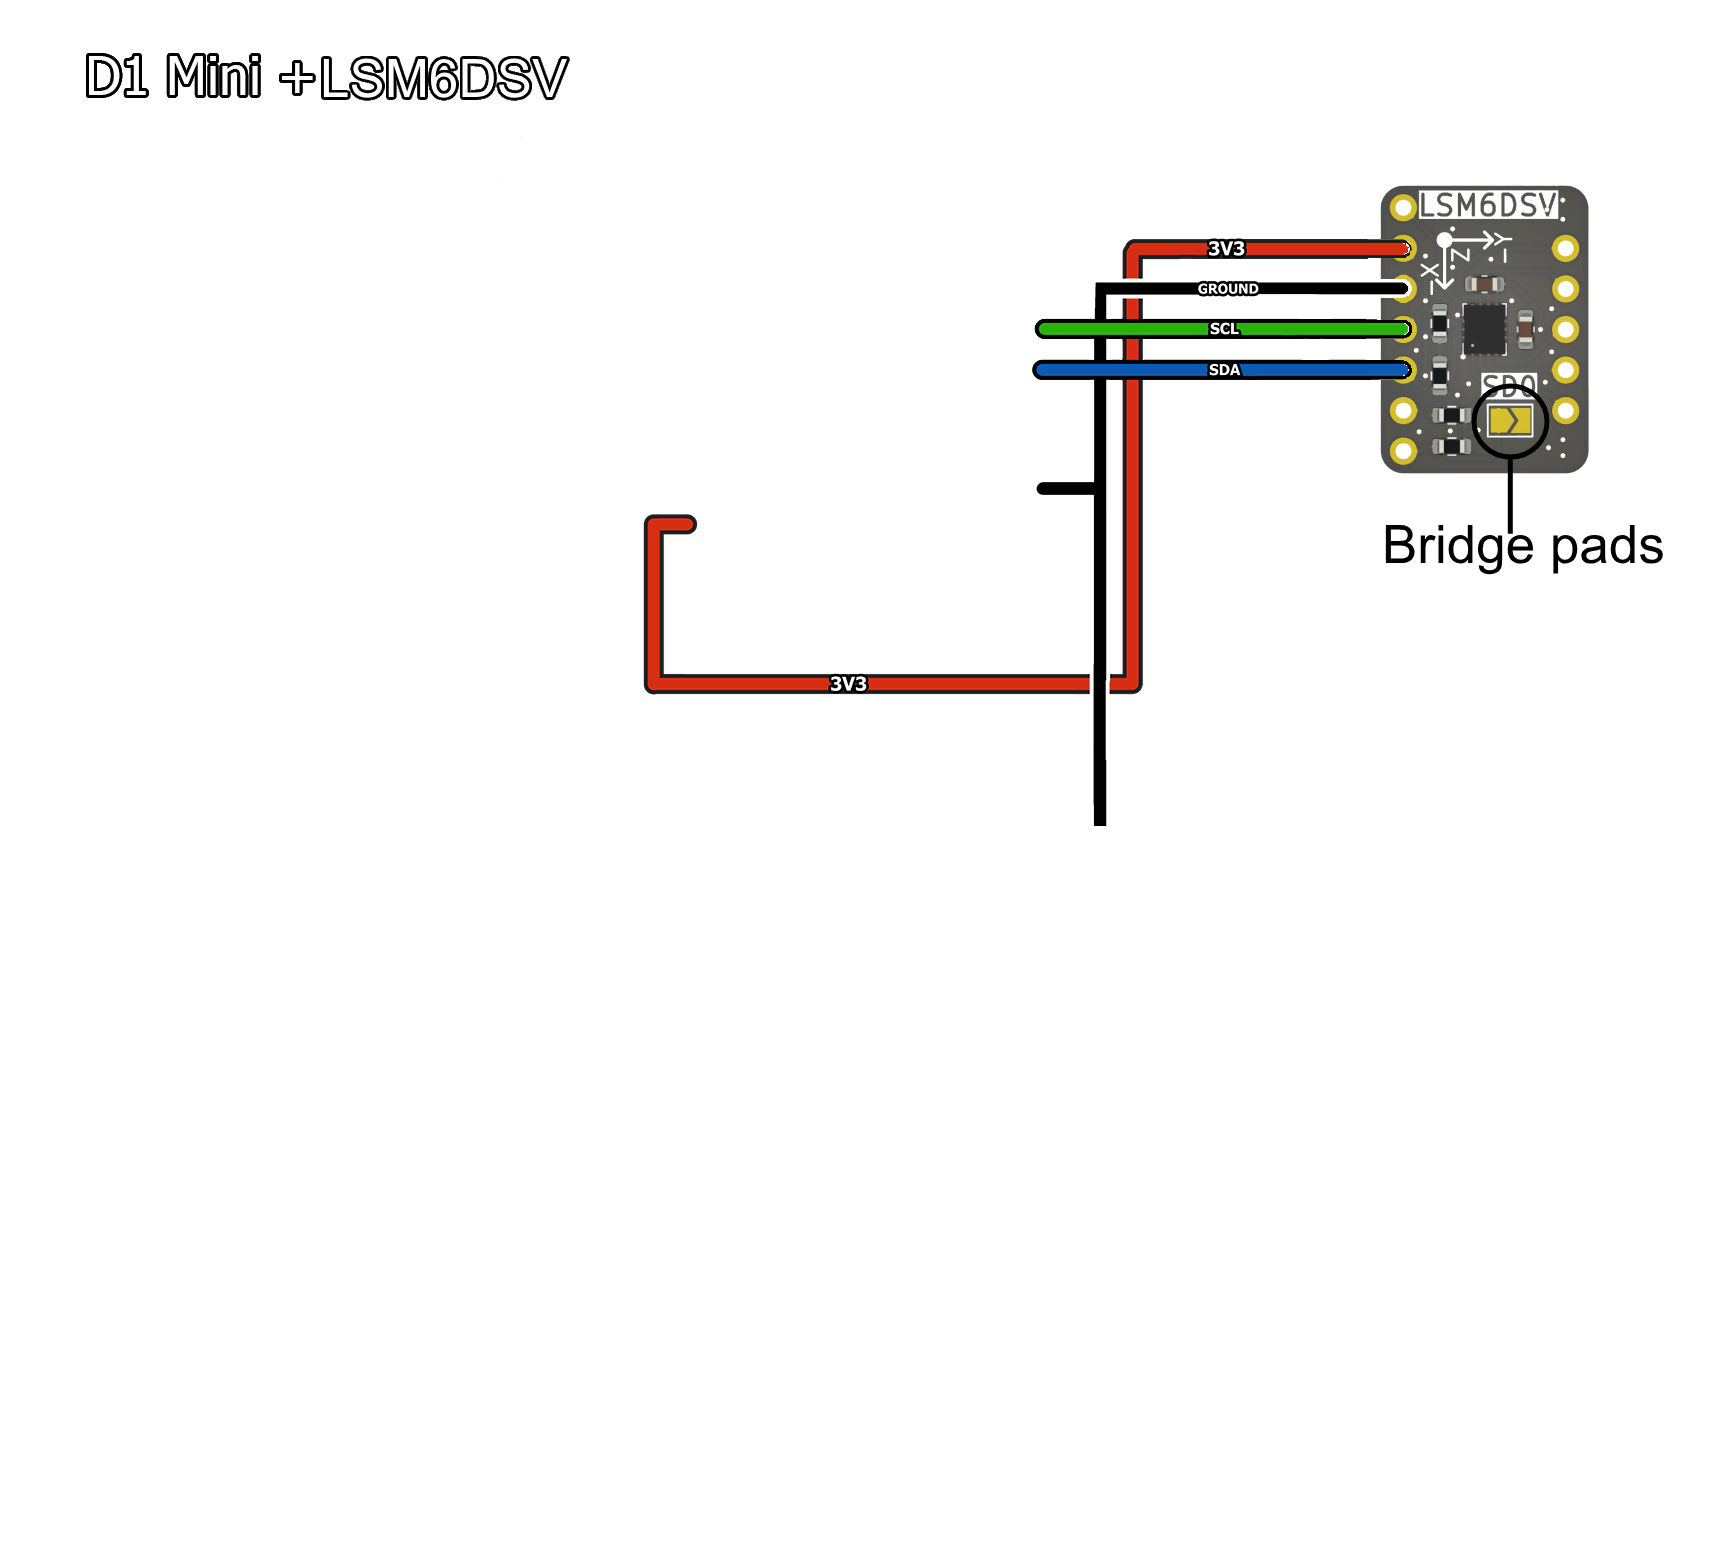
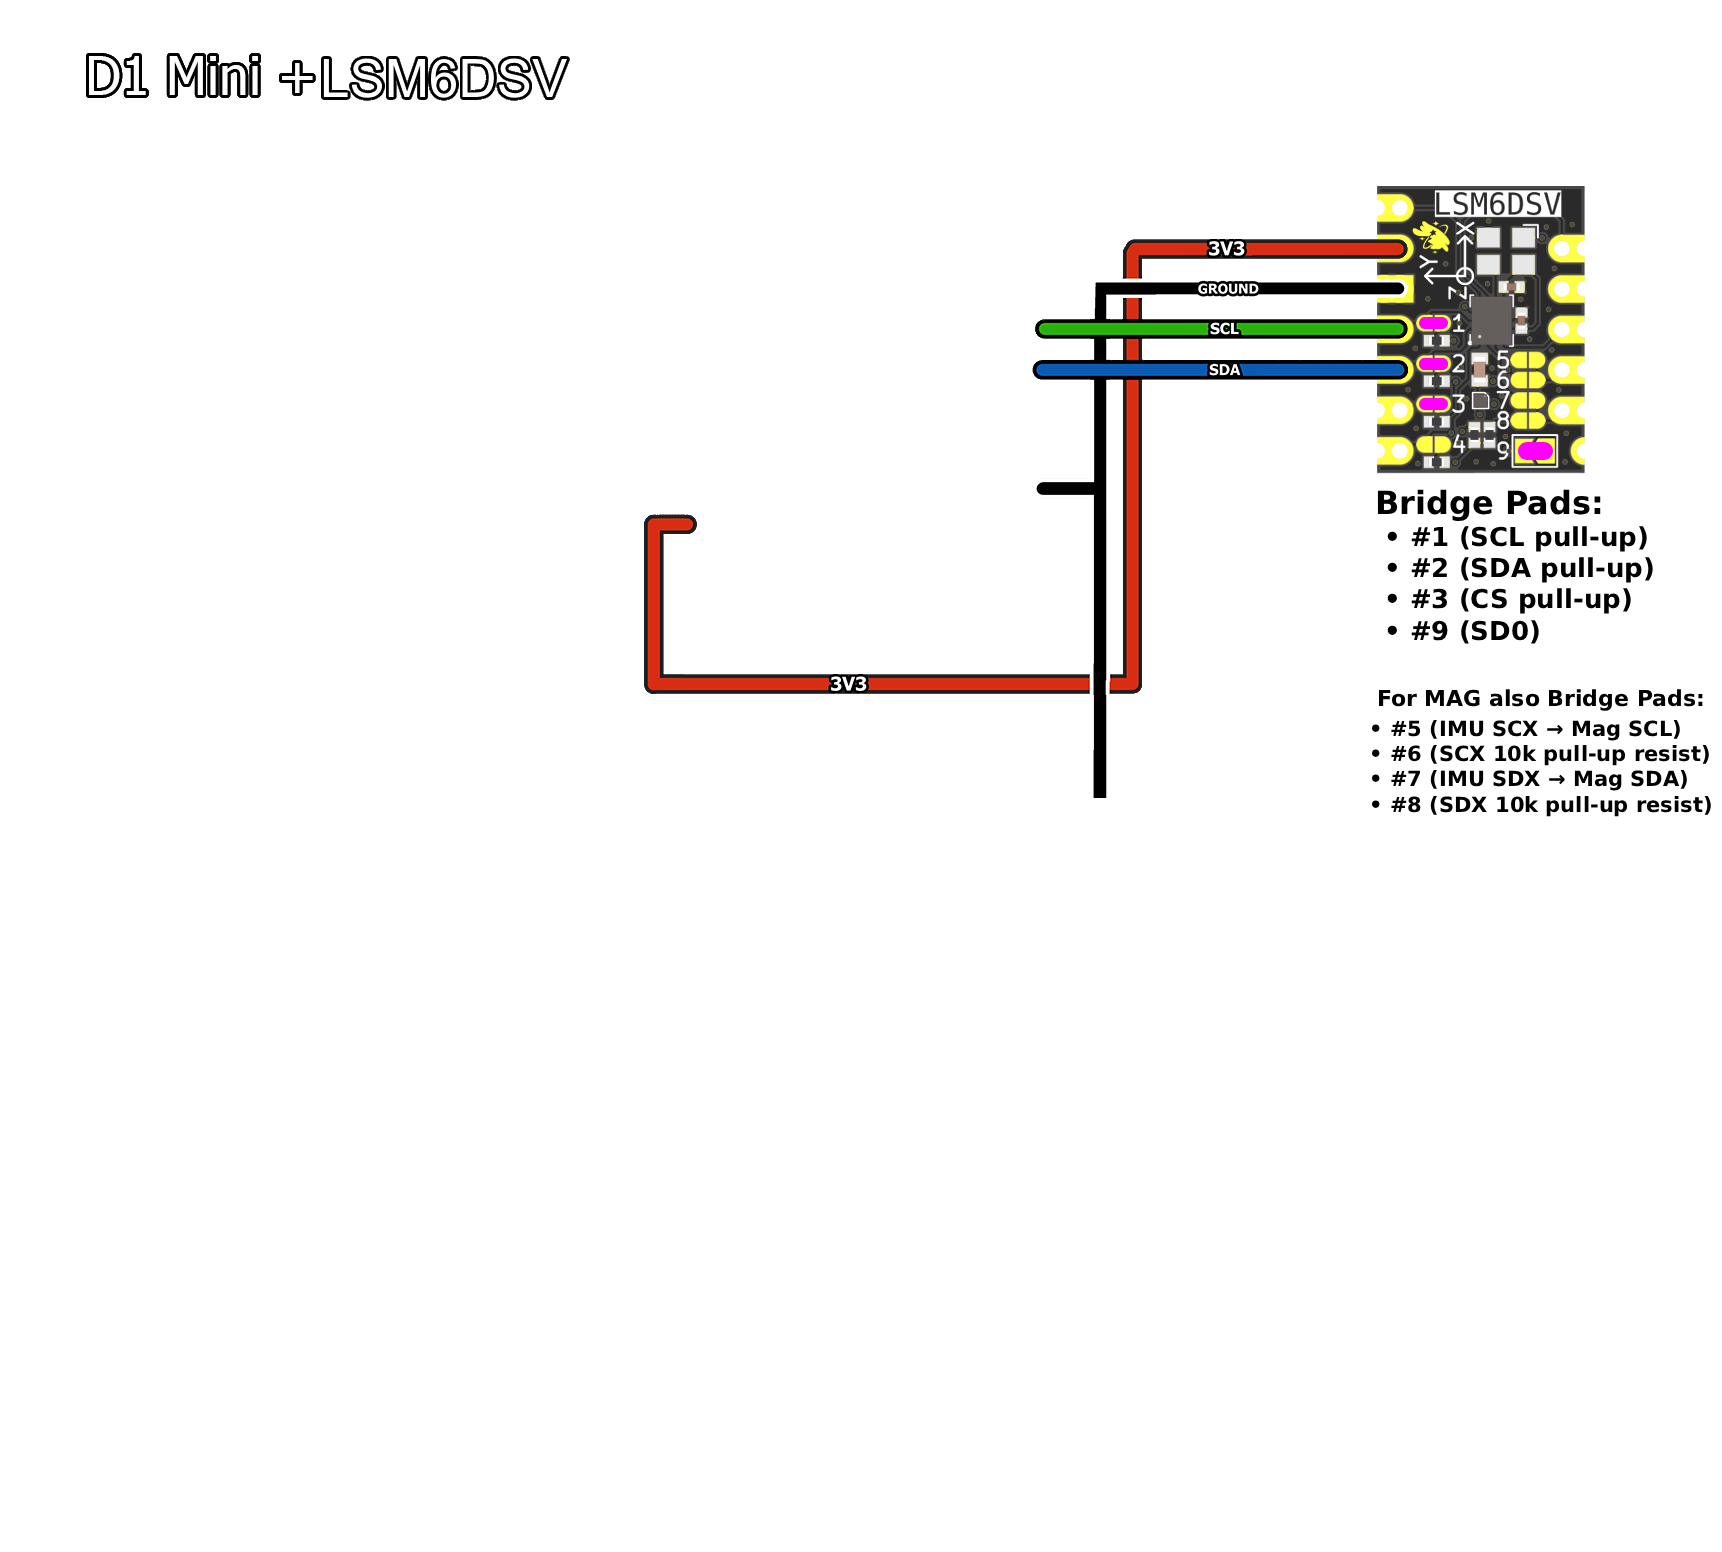
Bridging details for IMU modules & new images

Changed region(s): [[0.8002, 0.1237, 1.0, 0.5258]]

diff --git a/src/diy/tracker-schematics.md b/src/diy/tracker-schematics.md
@@ -43,6 +43,28 @@ SPI is the preferred protocol due to its better performance and energy efficienc
 | D7    | GPIO13 | Yes              | Yes         | MOSI pin for SPI interface                          |
 | D8    | GPIO15 | Pulled to ground | Yes         | CS pin for SPI interface                            |
 
+## IMU Breakout Modules
+
+Many IMU Breakout Modules provided by the community have pads that you need to bridge in order to connect the IMU to the main board. Most breakout modules have similar pads that you need to bridge, but be sure to check the schematic provided by the seller to verify it is the same as this!
+
+| Bridge Pad | Pin | When to bridge | Description |
+|:---:|:---:|:---:|:---:|
+| 1 | SCL | Using I2C | Connects 4k7R pull-up to +3v3 for the SCL pin |
+| 2 | SDA | Using I2C | Connects 4k7R pull-up to +3v3 for the SDA pin |
+| 3 | CS | Using I2C | Connects 4k7R pull-up to +3v3 for the CS pin |
+| 4 | SD0 | Using I2C (Only Aux Sensor / Extension IMU) | Connects 4k7R pull-up to +3v3 for the SD0 pin |
+| 5 | IMU SCX → Mag SCL | Using I2C & Magnetomer | Connects the magnetometer's SCL pin to the IMU's SCX pin |
+| 6 | SCX | Using I2C & Magnetomer | Connects 10kR pull-up to +3v3 for SCX |
+| 7 | IMU SDX → Mag SCA | Using I2C & Magnetomer | Connects the magnetometer's SDA pin to the IMU's SDX pin |
+| 8 | SCX | Using I2C & Magnetomer | Connects 10kR pull-up to +3v3 for SDX |
+| 9 | SD0 | Using I2C (Only Main Sensor) | Connects SD0 to GND |
+
+Usually, for the Main IMU you want to bridge pads 1, 2, 3, and 9. Usually for the Extension IMU you want to bridge pads 1, 2, 3, and 4. If you want to hook up the magnetometer you will also need to bridge pads 5, 6, 7, and 8 in addition to the IMU bridge pads.
+
+| ICM-45686 (SlimeVR) | LSM6DSV (Moffshop) |
+| --- | --- |
+| [<img src="/assets/img/diy_slimevr-icm-45686.png" width="300px" />](/assets/img/diy_slimevr-icm-45686.png) | [<img src="/assets/img/diy_imu-module-lsm6dsv.png" width="300px" />](/assets/img/diy_imu-module-lsm6dsv.png) |
+
 ## Cable layout recommendation for auxiliary tracker
 
 Note that while schematics show SDA and SCL running adjacent to each other, make sure that they are not physically adjacent
